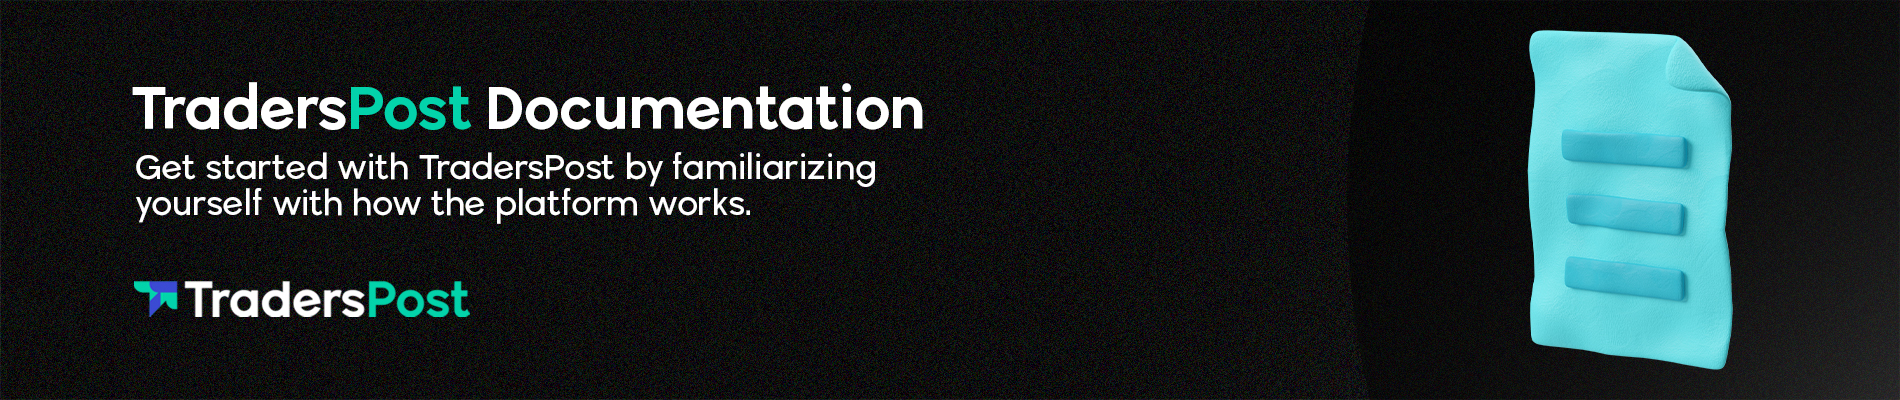
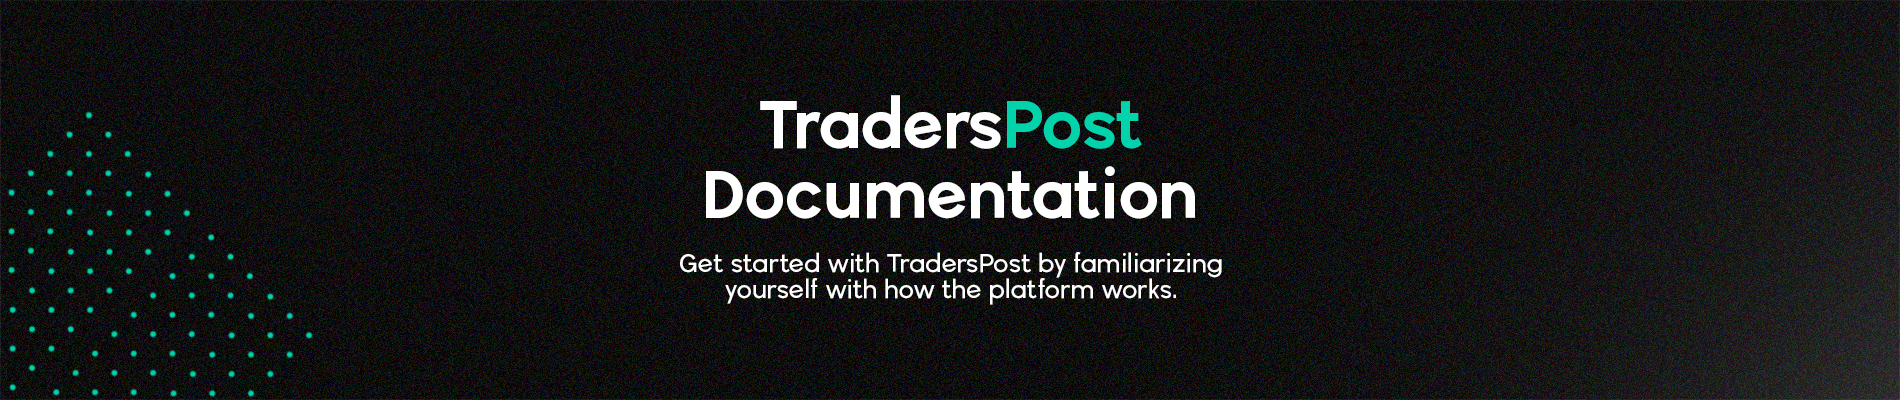
GitBook: [#107] No subject

diff --git a/README.md b/README.md
@@ -2,7 +2,7 @@
 description: >-
   Welcome to TradersPost! Get started with TradersPost by familiarizing yourself
   with how the platform works.
-cover: .gitbook/assets/header.jpeg
+cover: .gitbook/assets/Documentation Cover.jpeg
 coverY: 0
 ---
 
